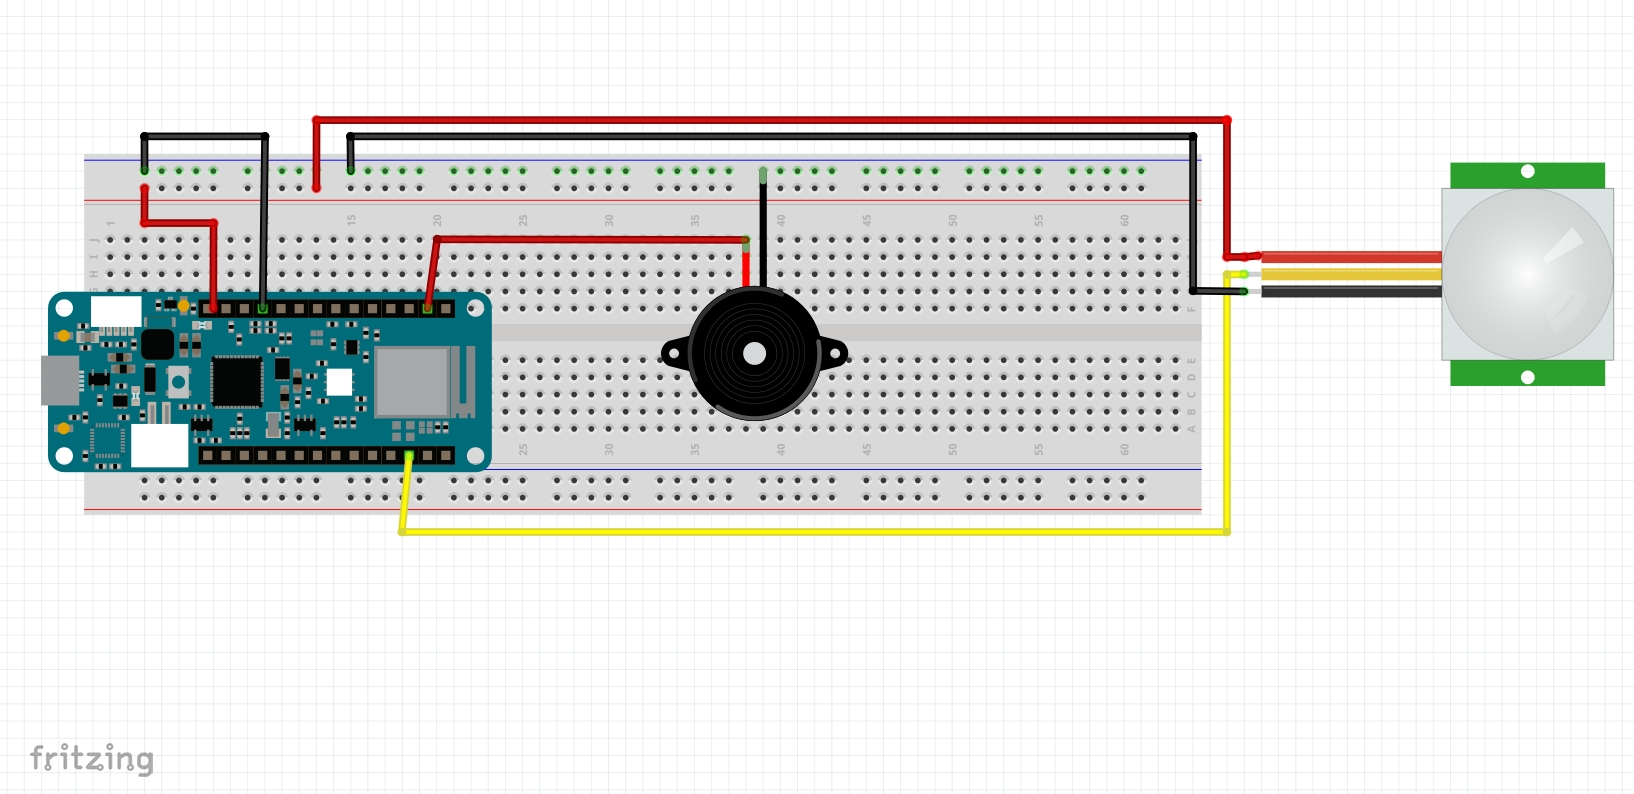
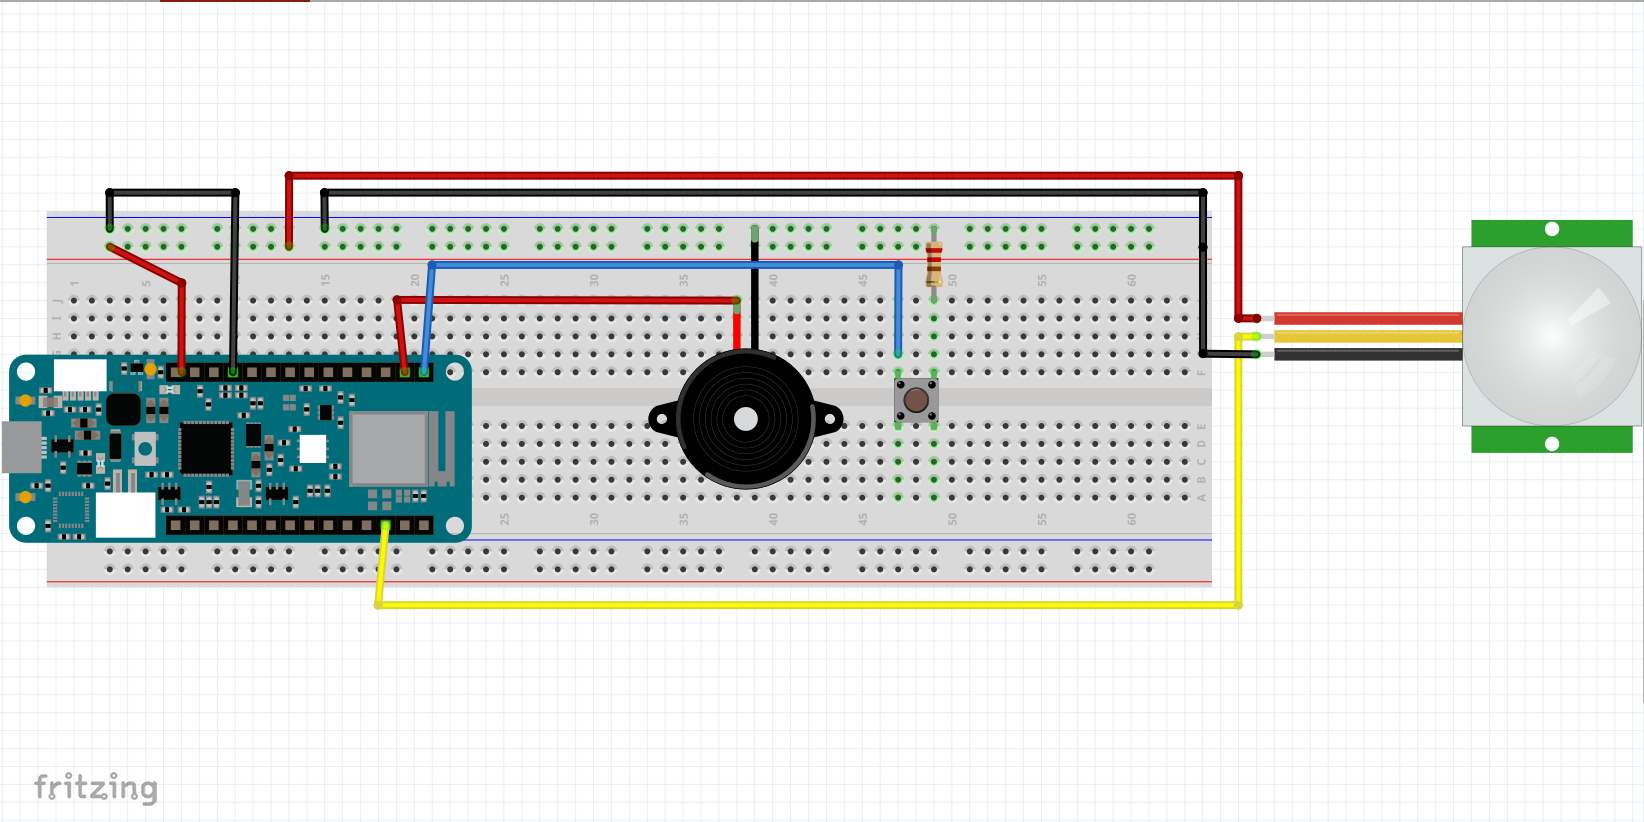
add a button and resistor

Changed region(s): [[0.0, 0.1209, 1.0, 0.8766], [0.0, 0.937, 0.0936, 0.9975]]

diff --git a/README.md b/README.md
@@ -1,16 +1,17 @@
 # Intrusion Alarm System
 ## 0. Introduction
-This Intrusion Alarm System is an Arduino-based project designed to detect unauthorized movements in environments such as labs, offices, or homes.  
-The status of the system will be sent to MQTT server via the Wi-Fi network "CE-Lab-Students", ensuring both on-site and off-site monitoring of activity.
-This project about MQTT server builds upon [CASA0014 Chrono Lumina workshop](https://workshops.cetools.org/codelabs/CASA0014-L6-chrono-blinker/index.html?index=..%2F..casa0014#1), with sensor added to the system to monitor its surroundings.
+This Intrusion Alarm System is an Arduino-based project designed to detect unauthorized movements in environments such as labs, offices, or homes. The status of the system will be sent to MQTT server via the Wi-Fi network "CE-Lab-Students", ensuring both on-site and off-site monitoring of activity. This project about MQTT server builds upon [CASA0014 Chrono Lumina workshop](https://workshops.cetools.org/codelabs/CASA0014-L6-chrono-blinker/index.html?index=..%2F..casa0014#1), with sensor added to the system to monitor its surroundings.
 ## 1. Preparation
-Before deploying the Intrusion Alarm System, ensure that you have the necessary setup and libraries installed.
+Before deploying the Intrusion Alarm System, ensure necessary setup and libraries installed.
 
 ### Prerequisites  
 1. **Hardware:**  
    + Arduino MKR WiFi 1010  
    + PIR Motion Sensor  
    + PKM22EPP-40 Buzzer  
+   + Button (for resetting system)  
+   + 10kΩ Resistor (for the button's pull-up configuration)  
+   + Jumper Wires (for connections) 
 2. **Software:**  
    + Arduino IDE
    + Libraries
